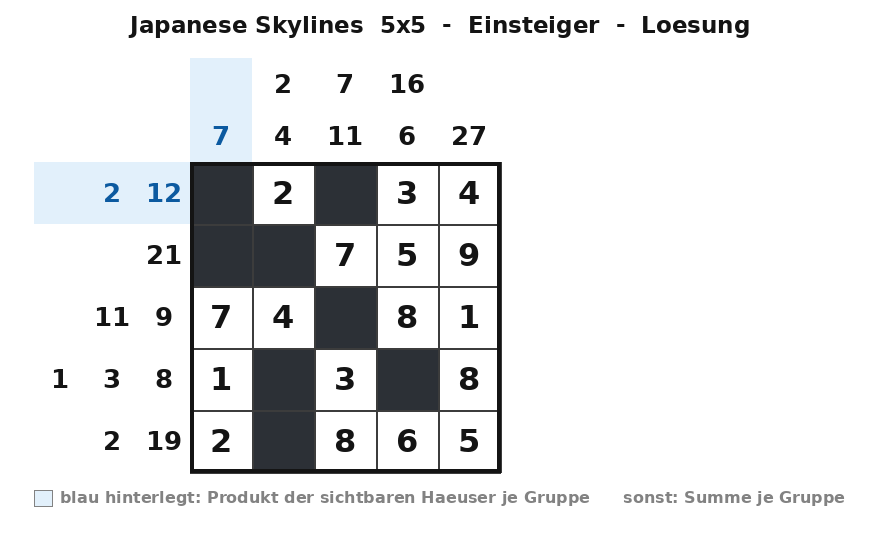
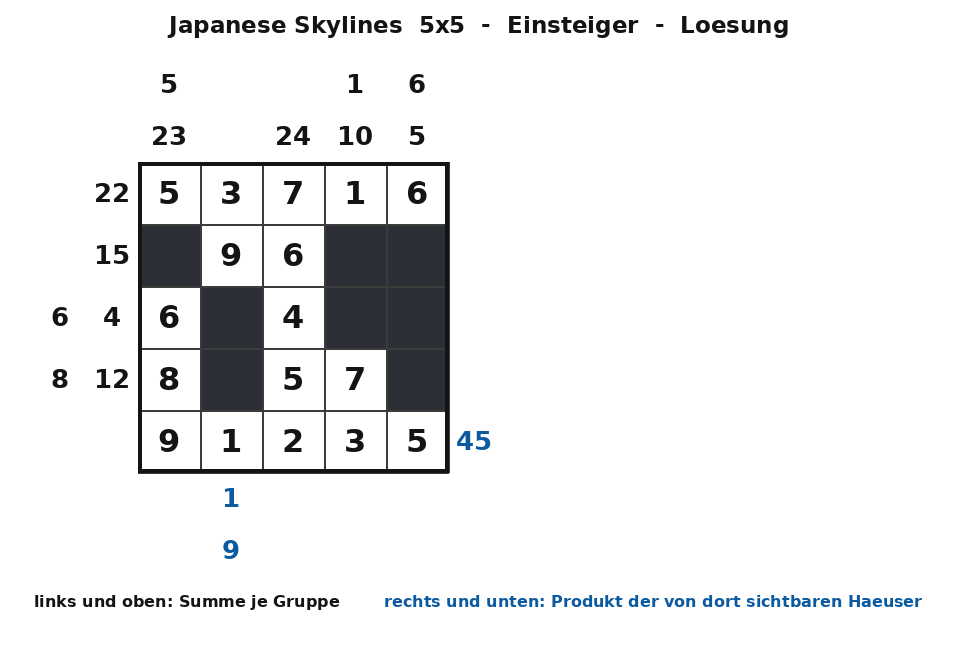
Skyline-Hinweise nach rechts und unten, alle vier Seiten belegt
Bisher standen alle Hinweise links und oben, Skyline-Linien brauchten eine
^-Markierung. Jetzt tragen Summen links und oben, Sichtprodukte rechts und
unten - die Seite sagt den Typ, die Markierung entfaellt.

Der Grund, warum nur diese Aufteilung traegt: eine Gruppensumme ist von
beiden Seiten dieselbe Zahl, ein Summen-Hinweis rechts waere bloss die
umgedrehte Liste des linken und damit ohne Inhalt. Sichtprodukte haengen
dagegen an der Blickrichtung - 3 # 5 1 7 ergibt von links [3, 35], von
rechts [7, 3] - und sind auf der Gegenseite echte Information.

Umgesetzt durch Spiegeln: group_products() liest die Linie von hinten,
patterns_for_products() baut vorwaerts und dreht die Muster um. Der Solver
selbst bleibt unveraendert.

Im PNG wachsen die Hinweise jetzt von allen vier Seiten nach aussen, die
Legende ist in den Farben der Hinweise gehalten. Beispielsatz neu erzeugt.

Getestet 4x4 bis 13x13 und Rechtecke: alle eindeutig, alle Hinweise
unabhaengig gegen die Loesung nachgerechnet, Laufzeiten unveraendert.

Claude-Session: https://claude.ai/code/session_01CXMCb2SqJPKDVz5uCPsxcM

diff --git a/japanese_skylines.py b/japanese_skylines.py
@@ -3,17 +3,25 @@ Japanese Skylines - Japanese Sums x Skyscrapers (Produkt-Variante)
 ===================================================================
 
 Ein Japanese-Sums-Raetsel, bei dem ein Teil der Hinweise durch Skyline-
-Hinweise ERSETZT ist. Der Anteil ist einstellbar; bewaehrt sind 20 bis 40
-Prozent. Welche Linie welchen Typ traegt, wechselt von Raetsel zu Raetsel -
-Zeilen wie Spalten koennen beides sein.
+Hinweise ERSETZT ist. Alle vier Seiten des Gitters tragen Hinweise, und die
+Seite verraet den Typ:
 
-  * JAPANESE SUMS (die Mehrheit der Linien): die Summe jeder
-    zusammenhaengenden Zifferngruppe, in der Reihenfolge der Linie.
+  * LINKS und OBEN stehen JAPANESE-SUMS-Hinweise: die Summe jeder
+    zusammenhaengenden Zifferngruppe, gelesen von links bzw. von oben.
 
-  * SKYLINE (der kleinere Teil, markiert mit ^): fuer jede Gruppe das
-    PRODUKT der Haeuser, die man von links bzw. von oben sieht. Die
+  * RECHTS und UNTEN stehen SKYLINE-Hinweise: fuer jede Gruppe das PRODUKT
+    der Haeuser, die man VON DORT sieht, also von rechts bzw. von unten. Die
     klassische Skyscrapers-Variante nennt die Anzahl sichtbarer Haeuser,
     die Summen-Variante ihre Summe - hier ist es ihr Produkt.
+
+Jede Linie traegt genau einen Hinweis, entweder links/oben oder rechts/unten.
+Der Anteil der Skyline-Linien ist einstellbar; bewaehrt sind 20 bis 40
+Prozent. Welche Linie welchen Typ bekommt, wechselt von Raetsel zu Raetsel.
+
+Warum die Seiten so verteilt sind: eine Gruppensumme ist von beiden Seiten
+dieselbe Zahl, ein Summen-Hinweis rechts waere also nur die umgedrehte Liste
+des linken - ohne neuen Inhalt. Sichtprodukte dagegen haengen an der
+Blickrichtung und sind auf der Gegenseite echte Zusatzinformation.
 
 REGELN
 ------
@@ -21,33 +29,37 @@ REGELN
 2. In jeder Zeile und jeder Spalte kommt jede Ziffer hoechstens einmal vor.
 3. Jede Zeile und jede Spalte enthaelt mindestens eine Ziffer.
 4. Zwei Gruppen sind durch mindestens ein schwarzes Feld getrennt. Jede
-   Hinweisliste nennt ihre Gruppen in der Reihenfolge der Linie.
-5. SUMMEN-Hinweis: die Summe der Ziffern der Gruppe.
-6. SKYLINE-Hinweis: das Produkt der sichtbaren Haeuser der Gruppe. Innerhalb
-   einer Gruppe ist ein Haus sichtbar, wenn alle Haeuser davor IN DERSELBEN
-   GRUPPE niedriger sind. Das erste Haus jeder Gruppe ist immer sichtbar;
-   ein schwarzes Feld beginnt die Sicht neu.
+   Hinweisliste nennt ihre Gruppen in der Reihenfolge, in der man sie von
+   der Seite des Hinweises aus antrifft.
+5. SUMMEN-Hinweis (links/oben): die Summe der Ziffern der Gruppe.
+6. SKYLINE-Hinweis (rechts/unten): das Produkt der sichtbaren Haeuser der
+   Gruppe. Innerhalb einer Gruppe ist ein Haus sichtbar, wenn alle Haeuser
+   davor IN DERSELBEN GRUPPE niedriger sind. Das erste Haus jeder Gruppe ist
+   immer sichtbar; ein schwarzes Feld beginnt die Sicht neu.
 
-BEISPIELE fuer dieselbe Linie  3 # 5 1 7  mit Gruppen [3] und [5,1,7]
+BEISPIEL fuer dieselbe Zeile  3 # 5 1 7  mit Gruppen [3] und [5,1,7]
 
-   als Summen-Linie:    3 und 13, denn 5 + 1 + 7 = 13
-   als Skyline-Linie:   3 und 35, denn man sieht die 5, dann verdeckt sie
-                        die 1, dann ragt die 7 heraus: 5 * 7 = 35
+   als Summen-Zeile, links:    3 und 13, denn 5 + 1 + 7 = 13
+   als Skyline-Zeile, rechts:  7 und 3 - von rechts trifft man zuerst die
+                               Gruppe [5,1,7]. Dort steht die 7 vorn und
+                               verdeckt 1 und 5, bleibt also allein sichtbar.
+                               Dann folgt die 3.
 
 NUETZLICHE DEDUKTIONSREGELN
 ---------------------------
-* Die sichtbaren Haeuser einer Spaltengruppe bilden eine streng aufsteigende
-  Folge. Ein Spalten-Hinweis ist also stets ein Produkt lauter verschiedener
+* Die sichtbaren Haeuser einer Gruppe bilden eine streng aufsteigende Folge.
+  Ein Skyline-Hinweis ist also stets ein Produkt lauter verschiedener
   Ziffern - 16 oder 25 kann kein Hinweis sein.
-* Ein Spalten-Hinweis von 5 oder 7 heisst: diese Ziffer steht ganz oben in
-  ihrer Gruppe, alles darunter in der Gruppe ist kleiner.
-* Ein Spalten-Hinweis 1 heisst: die Gruppe beginnt mit einer 1 und faellt
-  danach nur noch ab - eine 1 ganz oben verdeckt nichts, also besteht die
-  Gruppe aus genau dieser 1.
-* Ein grosser Spalten-Hinweis wie 504 = 7*8*9 erzwingt mindestens drei
+* Ein Skyline-Hinweis von 5 oder 7 heisst: diese Ziffer steht am aeusseren
+  Ende ihrer Gruppe, alles dahinter in der Gruppe ist kleiner.
+* Ein Skyline-Hinweis 1 heisst: die Gruppe beginnt von dieser Seite mit
+  einer 1. Eine 1 verdeckt nichts, also besteht die Gruppe aus genau ihr.
+* Ein grosser Skyline-Hinweis wie 504 = 7*8*9 erzwingt mindestens drei
   Zellen mit stark steigenden Werten.
-* Eine Zeilengruppe mit Summe s und Laenge L braucht L verschiedene Ziffern:
+* Eine Gruppe mit Summe s auf L Zellen braucht L verschiedene Ziffern:
   Summe 6 auf drei Zellen geht nur als 1+2+3.
+* Summe und Sichtprodukt beschreiben dieselbe Gruppe von zwei Seiten - wer
+  eine Gruppe aus einer Richtung festgelegt hat, kennt sie ganz.
 
 Jedes erzeugte Raetsel hat garantiert genau eine Loesung.
 """
@@ -93,9 +105,13 @@ def group_sums(line: Sequence[CellValue]) -> Clue:
 
 
 def group_products(line: Sequence[CellValue]) -> Clue:
-    """Spalten-Hinweis: Produkt der in jeder Gruppe sichtbaren Haeuser."""
+    """
+    Skyline-Hinweis, VON HINTEN gelesen: Produkt der in jeder Gruppe
+    sichtbaren Haeuser, mit Blick von rechts bzw. von unten. Die Gruppen
+    erscheinen in der Reihenfolge, in der man sie von dort aus antrifft.
+    """
     clue = []
-    for group in _groups(line):
+    for group in _groups(list(line)[::-1]):
         product, highest = 1, 0
         for value in group:
             if value > highest:
@@ -205,8 +221,12 @@ def patterns_for_sums(size: int, clue: Clue) -> Tuple[Pattern, ...]:
 
 @lru_cache(maxsize=None)
 def patterns_for_products(size: int, clue: Clue) -> Tuple[Pattern, ...]:
-    """Alle Linien der Laenge `size` mit diesen Gruppen-Sichtprodukten."""
-    return _build_patterns(size, clue, by_product=True)
+    """
+    Alle Linien der Laenge `size`, deren Sichtprodukte VON HINTEN gelesen
+    diesem Hinweis entsprechen. Gebaut wird vorwaerts, dann gespiegelt: eine
+    Linie, die von links `clue` ergibt, ergibt umgedreht von rechts dasselbe.
+    """
+    return tuple(p[::-1] for p in _build_patterns(size, clue, by_product=True))
 
 
 def patterns_for(size: int, line: LineClue) -> Tuple[Pattern, ...]:
@@ -472,26 +492,33 @@ def render(
     """
     rows, cols = len(row_clues), len(col_clues)
 
-    left = []
+    # Summen-Zeilen beschriften links, Skyline-Zeilen rechts
+    left, right = [], []
     for kind, clue in row_clues:
-        text = " ".join(map(str, clue)) or "-"
-        left.append(("^ " if kind == SKY else "  ") + text)
-    label_width = max(len(s) for s in left)
+        text = " ".join(map(str, clue))
+        left.append("" if kind == SKY else text)
+        right.append(text if kind == SKY else "")
+    left_width = max(len(s) for s in left)
 
-    columns = [[str(v) for v in clue] for _, clue in col_clues]
-    marks = ["^" if kind == SKY else "" for kind, _ in col_clues]
-    depth = max(len(c) for c in columns) + 1  # eine Zeile fuer die Marker
-    cell_width = max(3, max((len(s) for c in columns for s in c), default=1))
+    # Summen-Spalten beschriften oben, Skyline-Spalten unten
+    above, below = [], []
+    for kind, clue in col_clues:
+        text = [str(v) for v in clue]
+        above.append([] if kind == SKY else text)
+        below.append(text if kind == SKY else [])
+    high = max((len(c) for c in above), default=0)
+    deep = max((len(c) for c in below), default=0)
+    cell_width = max(3, max((len(s) for c in above + below for s in c), default=1))
 
-    pad = " " * (label_width + 1)
+    pad = " " * (left_width + 1)
     border = pad + "+" + "+".join("-" * cell_width for _ in range(cols)) + "+"
 
-    out = [pad + " " + " ".join(m.center(cell_width) for m in marks)]
-    for level in range(depth - 1):
+    out = []
+    for level in range(high):
         line = []
-        for c in columns:
-            # Hinweise nach unten ausrichten, damit sie am Gitter kleben
-            offset = level - (depth - 1 - len(c))
+        for c in above:
+            # nach unten ausrichten, damit die Hinweise am Gitter kleben
+            offset = level - (high - len(c))
             line.append((c[offset] if offset >= 0 else "").center(cell_width))
         out.append(pad + " " + " ".join(line))
 
@@ -504,14 +531,21 @@ def render(
             else:
                 value = grid[r][c]
                 cells.append(("#" if value == 0 else str(value)).center(cell_width))
-        out.append(f"{left[r]:>{label_width}} |" + "|".join(cells) + "|")
+        tail = f" {right[r]}" if right[r] else ""
+        out.append(f"{left[r]:>{left_width}} |" + "|".join(cells) + "|" + tail)
         out.append(border)
 
-    sky_count = sum(1 for kind, _ in list(row_clues) + list(col_clues) if kind == SKY)
+    for level in range(deep):
+        line = []
+        for c in below:
+            line.append((c[level] if level < len(c) else "").center(cell_width))
+        out.append(pad + " " + " ".join(line))
+
+    sky = sum(1 for kind, _ in list(row_clues) + list(col_clues) if kind == SKY)
     out.append("")
-    out.append("  ^ = Produkt der sichtbaren Haeuser jeder Gruppe (Skyline)")
-    out.append("  sonst = Summe jeder Gruppe (Japanese Sums)")
-    out.append(f"  {sky_count} von {rows + cols} Linien sind Skyline-Linien")
+    out.append("  links und oben  = Summe jeder Gruppe")
+    out.append("  rechts und unten = Produkt der von dort sichtbaren Haeuser")
+    out.append(f"  {sky} von {rows + cols} Linien sind Skyline-Linien")
     return "\n".join(out)
 
 
@@ -521,10 +555,8 @@ def render(
 
 _INK = (20, 20, 20)
 _SKY_INK = (12, 90, 160)
-_SKY_TINT = (226, 240, 251)
 _BLACK_CELL = (44, 48, 54)
 _GRID = (60, 60, 60)
-_FAINT = (130, 130, 130)
 
 
 def _font(size: int):
@@ -571,8 +603,14 @@ def save_image(
     title_font = _font(int(cell * 0.38))
     note_font = _font(int(cell * 0.26))
 
-    deep_left = max(len(clue) for _, clue in row_clues)
-    deep_top = max(len(clue) for _, clue in col_clues)
+    # Summen stehen links und oben, Skyline-Produkte rechts und unten
+    def depth(clues, kind) -> int:
+        return max((len(clue) for k, clue in clues if k == kind), default=0)
+
+    deep_left = depth(row_clues, SUM)
+    deep_right = depth(row_clues, SKY)
+    deep_top = depth(col_clues, SUM)
+    deep_bottom = depth(col_clues, SKY)
 
     # Hinweisfeld so breit machen, dass auch dreistellige Zahlen hineinpassen
     probe = ImageDraw.Draw(Image.new("RGB", (1, 1)))
@@ -585,16 +623,18 @@ def save_image(
                  for _, clue in list(row_clues) + list(col_clues) for v in clue)
     slot = max(int(cell * 0.55), widest + int(cell * 0.26))
 
-    note = ("blau hinterlegt: Produkt der sichtbaren Haeuser je Gruppe"
-            "      sonst: Summe je Gruppe")
-    note_width = int(cell * 0.42) + text_width(note, note_font)
+    note = ("links und oben: Summe je Gruppe        "
+            "rechts und unten: Produkt der von dort sichtbaren Haeuser")
+    note_width = text_width(note, note_font)
 
     margin = int(cell * 0.55)
     head = int(cell * 0.95) if title else margin
     grid_x = margin + deep_left * slot
     grid_y = head + deep_top * slot
-    width = max(grid_x + cols * cell + margin, margin + note_width + margin)
-    height = grid_y + rows * cell + margin + int(cell * 0.85)
+    width = max(grid_x + cols * cell + deep_right * slot + margin,
+                margin + note_width + margin)
+    height = (grid_y + rows * cell + deep_bottom * slot
+              + margin + int(cell * 0.85))
 
     image = Image.new("RGB", (width, height), "white")
     draw = ImageDraw.Draw(image)
@@ -603,29 +643,35 @@ def save_image(
         _centered(draw, title, (margin, int(cell * 0.12), width - margin,
                                 head - int(cell * 0.18)), title_font, _INK)
 
-    # Getoente Streifen hinter den Hinweisen der Skyline-Linien
-    for r, (kind, _) in enumerate(row_clues):
-        if kind == SKY:
-            y = grid_y + r * cell
-            draw.rectangle([margin, y, grid_x - 1, y + cell - 1], fill=_SKY_TINT)
-    for c, (kind, _) in enumerate(col_clues):
-        if kind == SKY:
-            x = grid_x + c * cell
-            draw.rectangle([x, head, x + cell - 1, grid_y - 1], fill=_SKY_TINT)
+    # Hinweise wachsen vom Gitter nach aussen, damit sie daran kleben
+    grid_right = grid_x + cols * cell
+    grid_bottom = grid_y + rows * cell
 
-    # Hinweise: rechtsbuendig bzw. unten am Gitter, damit sie daran kleben
     for r, (kind, clue) in enumerate(row_clues):
-        ink = _SKY_INK if kind == SKY else _INK
         y = grid_y + r * cell
-        for i, value in enumerate(reversed(clue)):
-            x = grid_x - (i + 1) * slot
-            _centered(draw, str(value), (x, y, x + slot, y + cell), clue_font, ink)
+        if kind == SKY:  # rechts, erste Gruppe von rechts zuerst
+            for i, value in enumerate(clue):
+                x = grid_right + i * slot
+                _centered(draw, str(value), (x, y, x + slot, y + cell),
+                          clue_font, _SKY_INK)
+        else:  # links, letzte Gruppe naeher am Gitter
+            for i, value in enumerate(reversed(clue)):
+                x = grid_x - (i + 1) * slot
+                _centered(draw, str(value), (x, y, x + slot, y + cell),
+                          clue_font, _INK)
+
     for c, (kind, clue) in enumerate(col_clues):
-        ink = _SKY_INK if kind == SKY else _INK
         x = grid_x + c * cell
-        for i, value in enumerate(reversed(clue)):
-            y = grid_y - (i + 1) * slot
-            _centered(draw, str(value), (x, y, x + cell, y + slot), clue_font, ink)
+        if kind == SKY:  # unten, erste Gruppe von unten zuerst
+            for i, value in enumerate(clue):
+                y = grid_bottom + i * slot
+                _centered(draw, str(value), (x, y, x + cell, y + slot),
+                          clue_font, _SKY_INK)
+        else:  # oben, letzte Gruppe naeher am Gitter
+            for i, value in enumerate(reversed(clue)):
+                y = grid_y - (i + 1) * slot
+                _centered(draw, str(value), (x, y, x + cell, y + slot),
+                          clue_font, _INK)
 
     # Zellen
     for r in range(rows):
@@ -650,11 +696,12 @@ def save_image(
     draw.rectangle([grid_x, grid_y, grid_x + cols * cell, grid_y + rows * cell],
                    outline=_INK, width=4)
 
-    # Legende
-    note_y = grid_y + rows * cell + int(cell * 0.26)
-    draw.rectangle([margin, note_y + 2, margin + int(cell * 0.3),
-                    note_y + int(cell * 0.3)], fill=_SKY_TINT, outline=_FAINT)
-    draw.text((margin + int(cell * 0.42), note_y), note, font=note_font, fill=_FAINT)
+    # Legende, farblich passend zu den Hinweisen selbst
+    note_y = grid_bottom + deep_bottom * slot + int(cell * 0.26)
+    head_note, _, sky_note = note.partition("rechts und unten")
+    draw.text((margin, note_y), head_note, font=note_font, fill=_INK)
+    draw.text((margin + text_width(head_note, note_font), note_y),
+              "rechts und unten" + sky_note, font=note_font, fill=_SKY_INK)
 
     folder = os.path.dirname(os.path.abspath(path))
     os.makedirs(folder, exist_ok=True)
